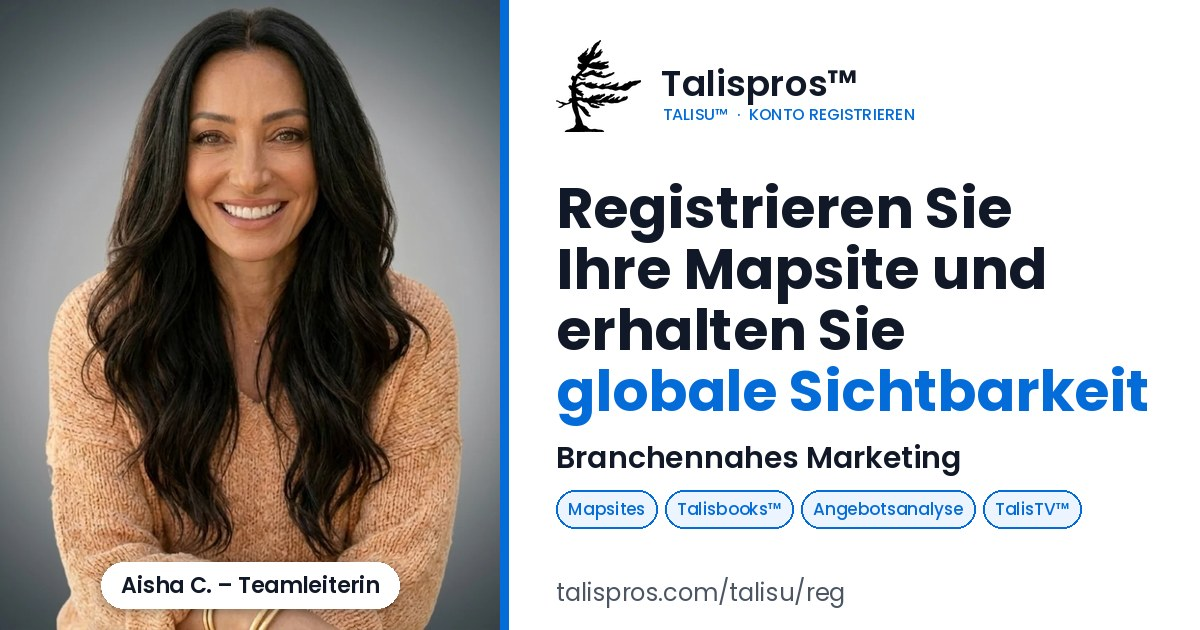
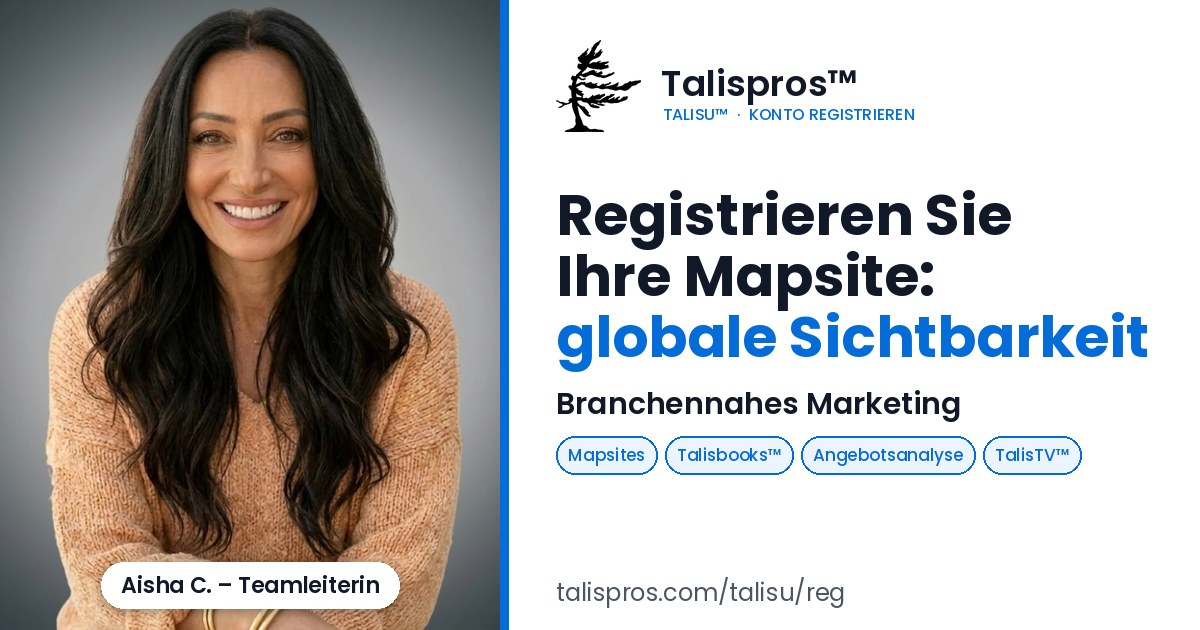
fix(talisu/reg): DE share card headline 'Registrieren Sie Ihre Mapsite: globale Sichtbarkeit'
Ralf's edit: colon instead of 'und erhalten Sie'. Three-line DE card,
matching DE og title, description and alt. EN unchanged.

Changed region(s): [[0.4625, 0.2714, 0.9558, 0.8444]]

diff --git a/lib/i18n/dictionaries/de.ts b/lib/i18n/dictionaries/de.ts
@@ -784,12 +784,12 @@ export const de: Dictionary = {
         "Häufig gestellte Fragen zu Talispros™, Mapsites und TalisU™.",
     },
     talisuRegister: {
-      title: "Registrieren Sie Ihre Talispros™ Mapsite und erhalten Sie globale Sichtbarkeit | TalisU™",
+      title: "Registrieren Sie Ihre Talispros™ Mapsite: globale Sichtbarkeit | TalisU™",
       description:
-        "Branchennahes Marketing, das Ihrer Mapsite globale Sichtbarkeit verschafft: Mapsites, Talisbooks™ (TEB), Angebotsanalyse (TVA) und TalisTV™ (TTV). Registrieren Sie sich jetzt und arbeiten Sie mit dem Team von Aisha C.",
+        "Branchennahes Marketing für die globale Sichtbarkeit Ihrer Mapsite: Mapsites, Talisbooks™ (TEB), Angebotsanalyse (TVA) und TalisTV™ (TTV). Registrieren Sie sich jetzt und arbeiten Sie mit dem Team von Aisha C.",
       ogImage: "/og/talisu-reg-de.jpg",
       ogImageAlt:
-        "Aisha C., Teamleiterin, mit dem Talispros™-Baumlogo: Registrieren Sie Ihre Mapsite und erhalten Sie globale Sichtbarkeit mit branchennahem Marketing",
+        "Aisha C., Teamleiterin, mit dem Talispros™-Baumlogo – Registrieren Sie Ihre Mapsite: globale Sichtbarkeit durch branchennahes Marketing",
     },
     talisuEngage: {
       title: "Webster und sein Anpassungsteam beauftragen | TalisU™",

diff --git a/__tests__/talisu-reg-og.test.ts b/__tests__/talisu-reg-og.test.ts
@@ -14,7 +14,7 @@ describe("/talisu/reg share metadata", () => {
       expect(m.title).not.toMatch(/Mapsite™/);
       expect(m.title).toBe(
         locale === "de"
-          ? "Registrieren Sie Ihre Talispros™ Mapsite und erhalten Sie globale Sichtbarkeit | TalisU™"
+          ? "Registrieren Sie Ihre Talispros™ Mapsite: globale Sichtbarkeit | TalisU™"
           : "Register Your Talispros™ Mapsite and Get Global Exposure | TalisU™",
       );
       // Lead with what Aisha's team does, not who she is.
@@ -27,6 +27,13 @@ describe("/talisu/reg share metadata", () => {
       expect(`${m.title} ${m.description} ${m.ogImageAlt}`).not.toMatch(
         /increased|mehr globale/i,
       );
+      if (locale === "de") {
+        // Ralf's edit: colon instead of "und erhalten Sie".
+        expect(`${m.title} ${m.description} ${m.ogImageAlt}`).not.toMatch(
+          /erhalten Sie/,
+        );
+        expect(m.ogImageAlt).toMatch(/Ihre Mapsite: globale Sichtbarkeit/);
+      }
       expect(m.ogImageAlt).toMatch(
         locale === "de" ? /globale Sichtbarkeit/ : /global exposure/,
       );
